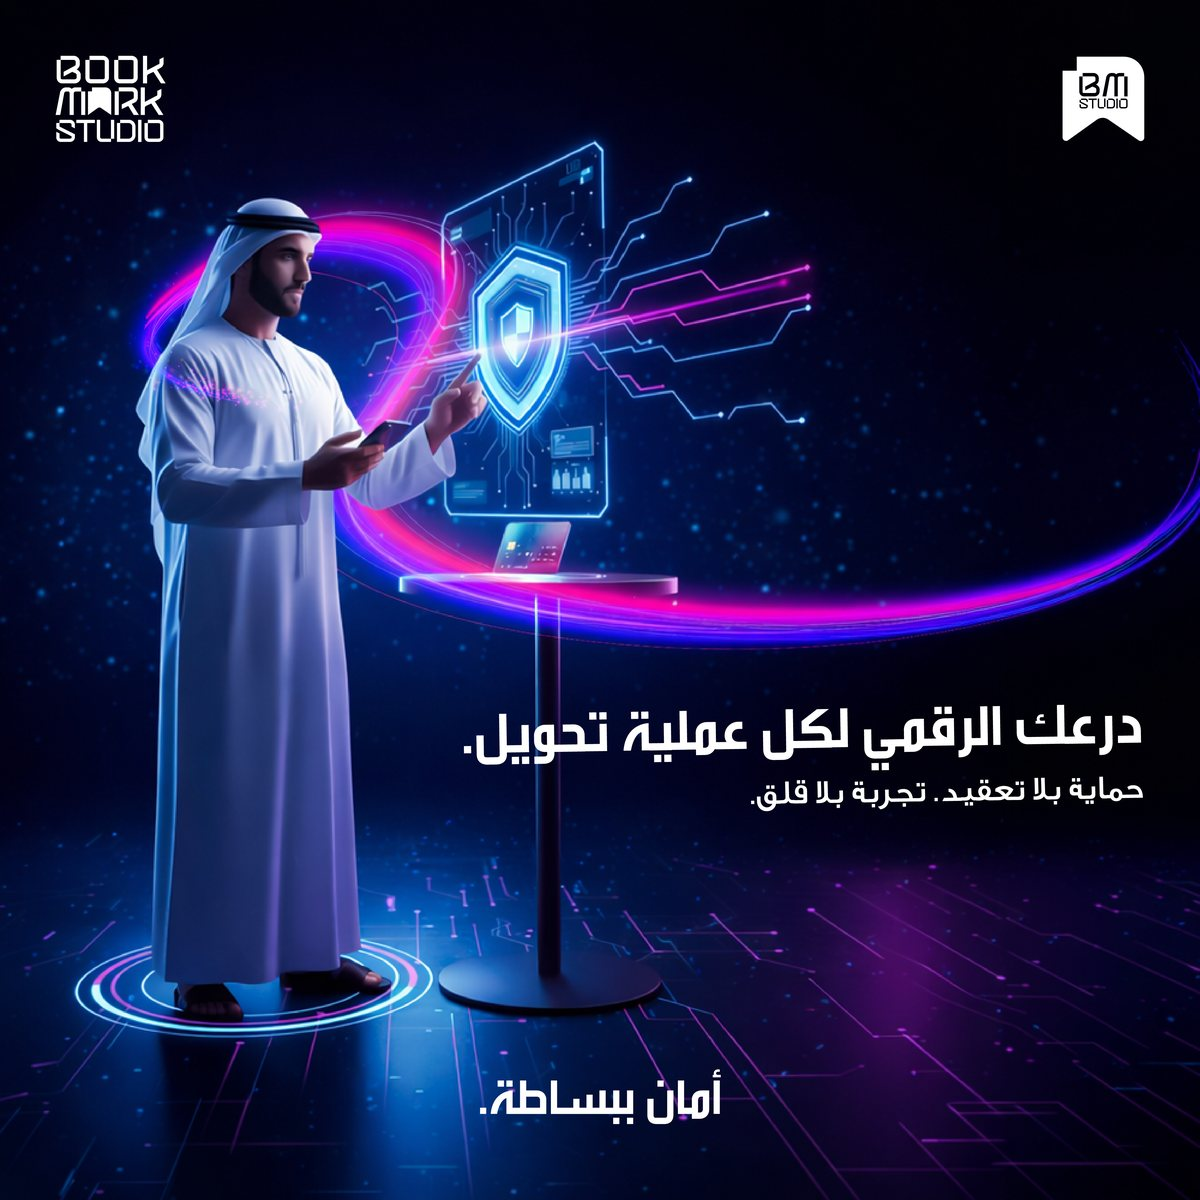
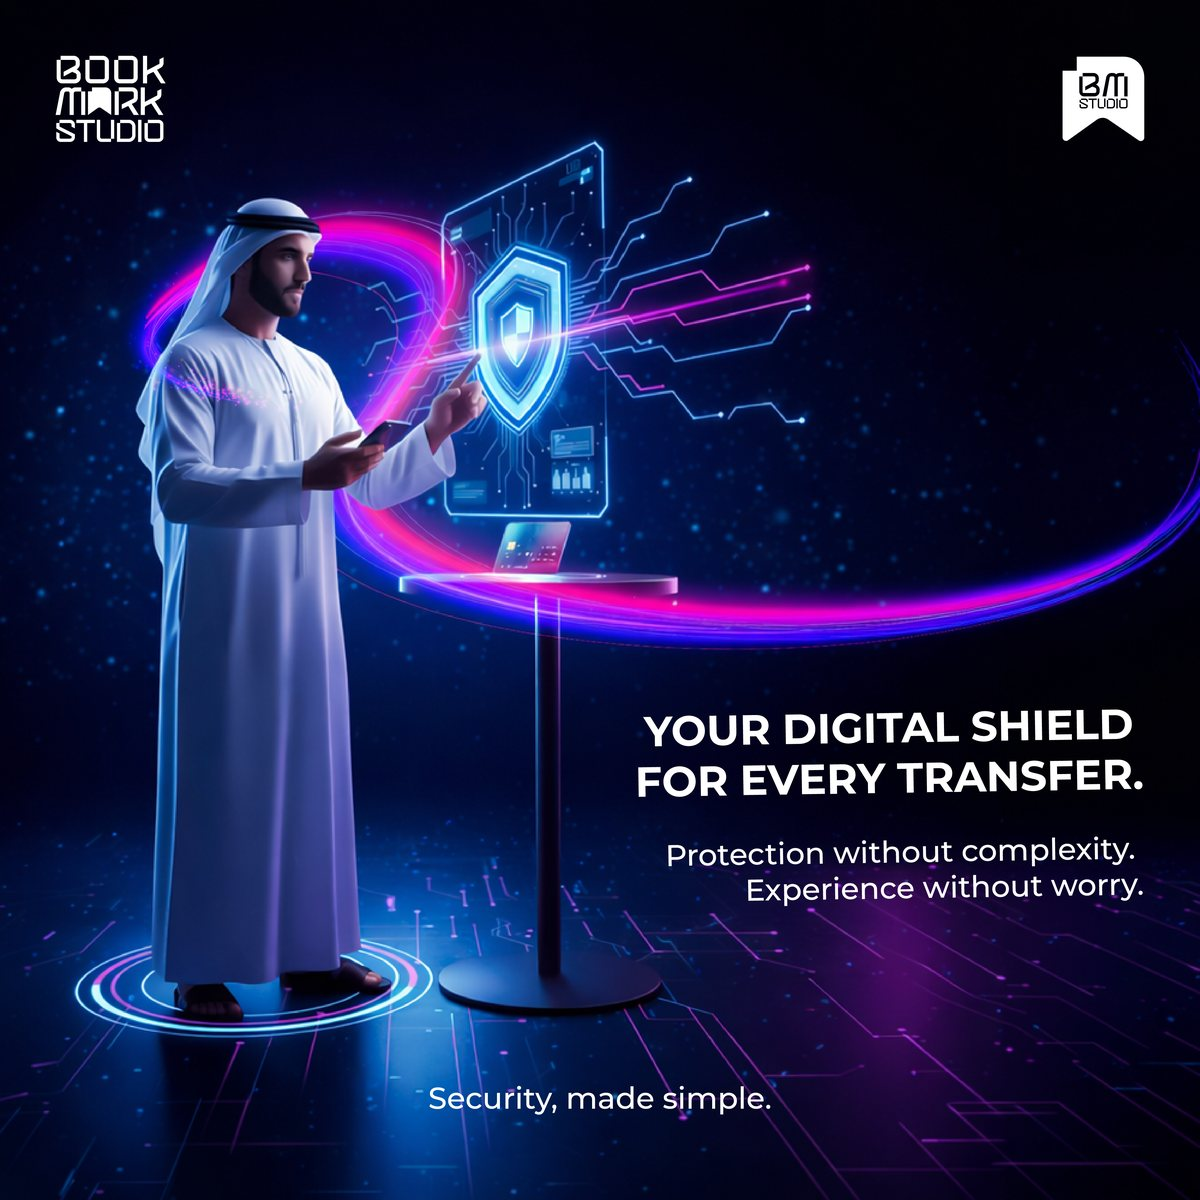
Add files via upload

Changed region(s): [[0.37, 0.5858, 0.9558, 0.7708], [0.3392, 0.8942, 0.6475, 0.9558]]

diff --git a/index.html b/index.html
@@ -19,6 +19,7 @@
   html{background:#070809}
   html,body,#root{font-family:'Kanit',sans-serif}
   body,#root{background:transparent}
+  html,body{overflow-x:clip;max-width:100vw}
   #waterbg{position:fixed;inset:0;z-index:-1;background:#070809 url('assets/water-bg.jpg') center/cover no-repeat}
   .wrap{overflow-x:clip}
   /* preloader (neon B) */
@@ -99,6 +100,30 @@
   #aboutText span.ch{transition:opacity .2s linear}
   /* sticky cards */
   .stick{position:sticky}
+  /* ---------- mobile tuning ---------- */
+  @media(max-width:640px){
+    .mq-tile{width:240px;height:150px;border-radius:.75rem}
+    .stat-row{gap:9px;padding:0 14px}
+    .stat-box{padding:13px 12px;border-radius:16px;min-height:104px}
+    .stat-box .v{font-size:1.55rem}
+    .stat-box .l{margin-top:7px;font-size:.66rem;letter-spacing:.05em}
+    .stat-box .u{font-size:.6rem;margin-top:3px}
+    .svc-card{width:248px;padding:20px}
+    .skill-track .sk{font-size:1.1rem}
+    .skill-belt{padding:13px 0}
+    nav a{font-size:.72rem;letter-spacing:.06em}
+    /* center the lone last stat box */
+    .stat-box:last-child{grid-column:1 / -1;width:calc(50% - 4.5px);max-width:none;margin-inline:auto}
+    /* center the lone 3rd reel */
+    #reelGrid>div:last-child{grid-column:1 / -1;max-width:calc(50% - 8px);margin-inline:auto}
+    /* project images: big horizontal swipe on mobile (keeps card short for overlap) */
+    .proj-grid{display:flex !important;overflow-x:auto;scroll-snap-type:x mandatory;gap:12px;scrollbar-width:none;-webkit-overflow-scrolling:touch;padding-bottom:4px}
+    .proj-grid::-webkit-scrollbar{display:none}
+    .proj-img{flex:0 0 84% !important;width:84% !important;height:auto !important;aspect-ratio:1/1;scroll-snap-align:center}
+    /* drop the About falling cards below the text */
+    #about{padding-bottom:22vh}
+    .fall-stack{top:50%}
+  }
 </style>
 </head>
 <body>
@@ -331,10 +356,10 @@ document.getElementById("projectList").innerHTML = projects.map((p,i)=>`
         </div>
         <a href="${p.link}" target="_blank" rel="noopener" class="rounded-full border-2 font-medium uppercase tracking-widest px-8 py-3 sm:px-10 sm:py-3.5 text-sm sm:text-base transition-colors hover:bg-[#D7E2EA]/10" style="border-color:#D7E2EA;color:#D7E2EA">Live Project</a>
       </div>
-      <div class="grid grid-cols-1 sm:grid-cols-3 gap-3 sm:gap-4">
-        <img src="${p.a}" loading="lazy" class="w-full object-cover rounded-[28px] sm:rounded-[34px]" style="aspect-ratio:1/1" alt="">
-        <img src="${p.b}" loading="lazy" class="w-full object-cover rounded-[28px] sm:rounded-[34px]" style="aspect-ratio:1/1" alt="">
-        <img src="${p.c}" loading="lazy" class="w-full object-cover rounded-[28px] sm:rounded-[34px]" style="aspect-ratio:1/1" alt="">
+      <div class="proj-grid grid grid-cols-1 sm:grid-cols-3 gap-3 sm:gap-4">
+        <img src="${p.a}" loading="lazy" class="proj-img w-full object-cover rounded-[28px] sm:rounded-[34px]" style="aspect-ratio:1/1" alt="">
+        <img src="${p.b}" loading="lazy" class="proj-img w-full object-cover rounded-[28px] sm:rounded-[34px]" style="aspect-ratio:1/1" alt="">
+        <img src="${p.c}" loading="lazy" class="proj-img w-full object-cover rounded-[28px] sm:rounded-[34px]" style="aspect-ratio:1/1" alt="">
       </div>
     </div>
   </div>`).join("");